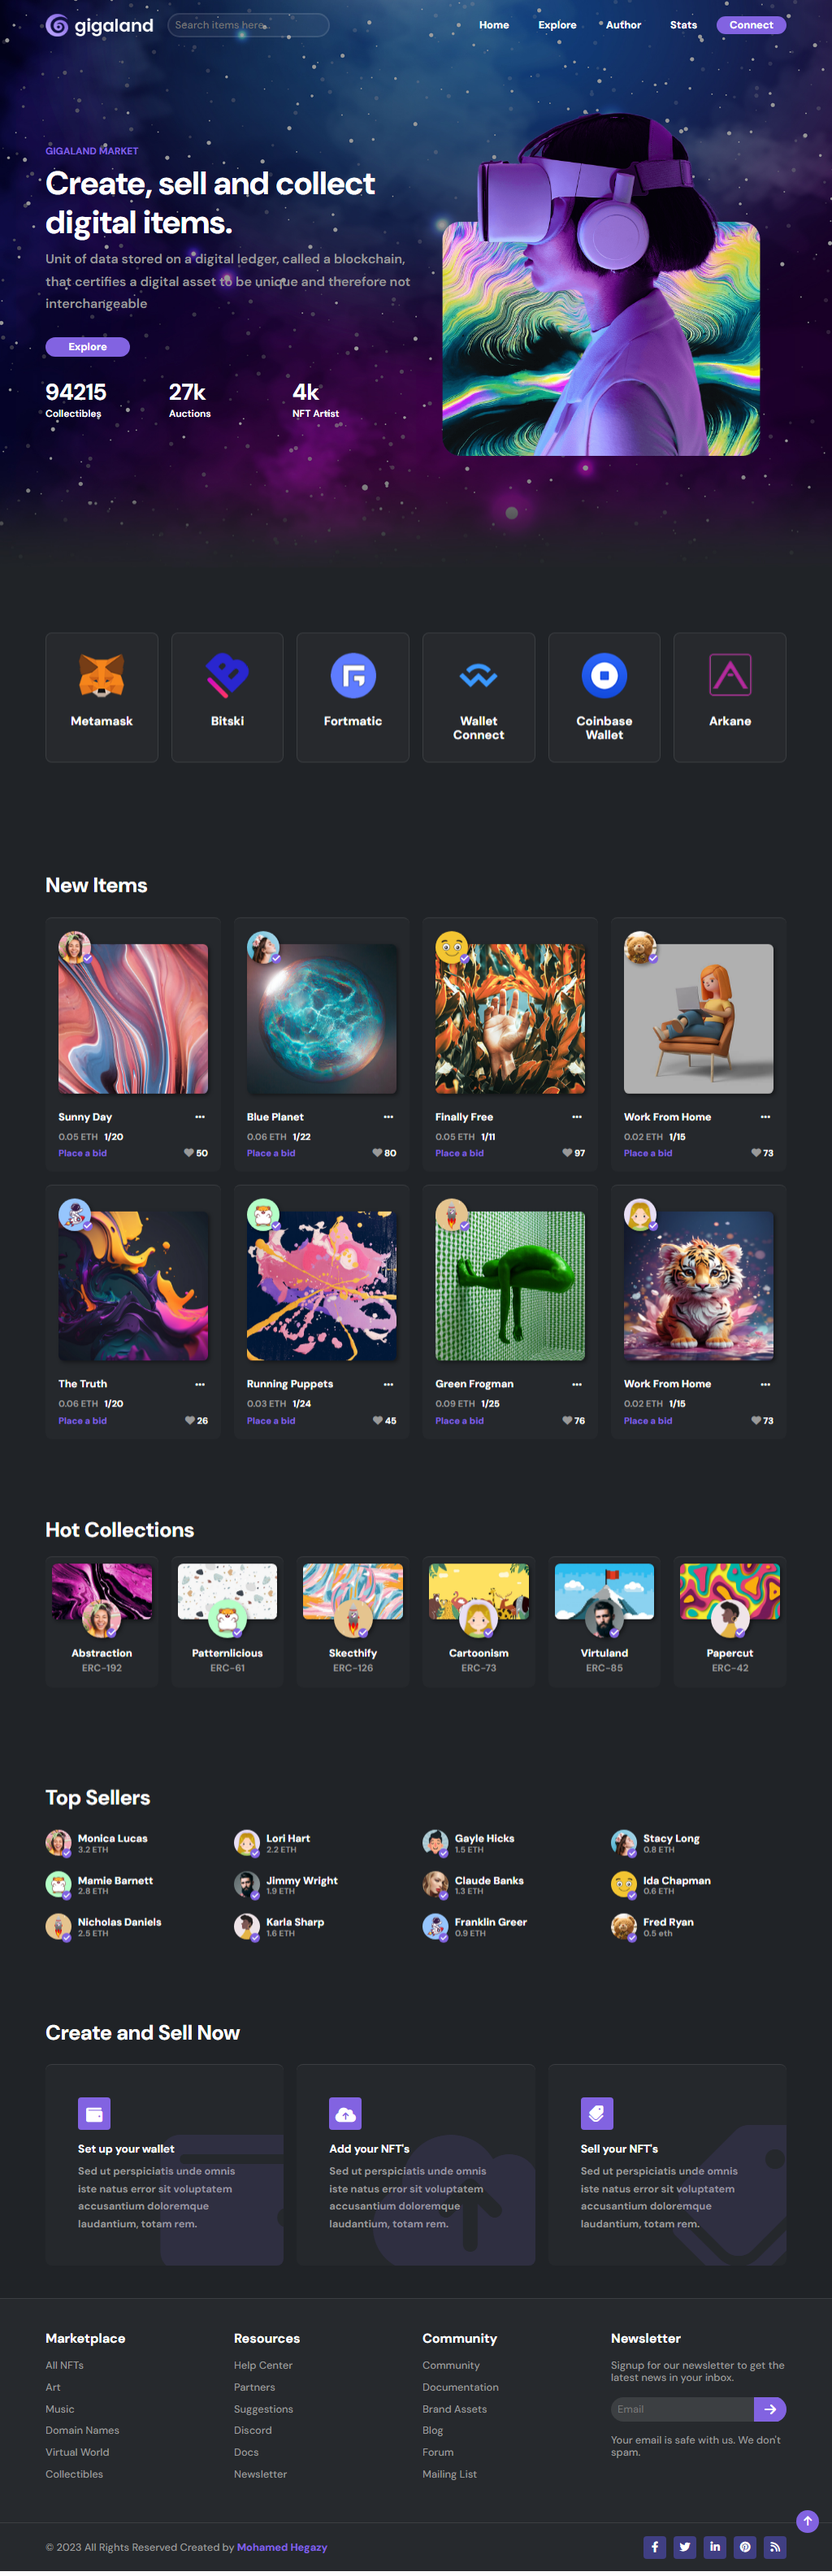
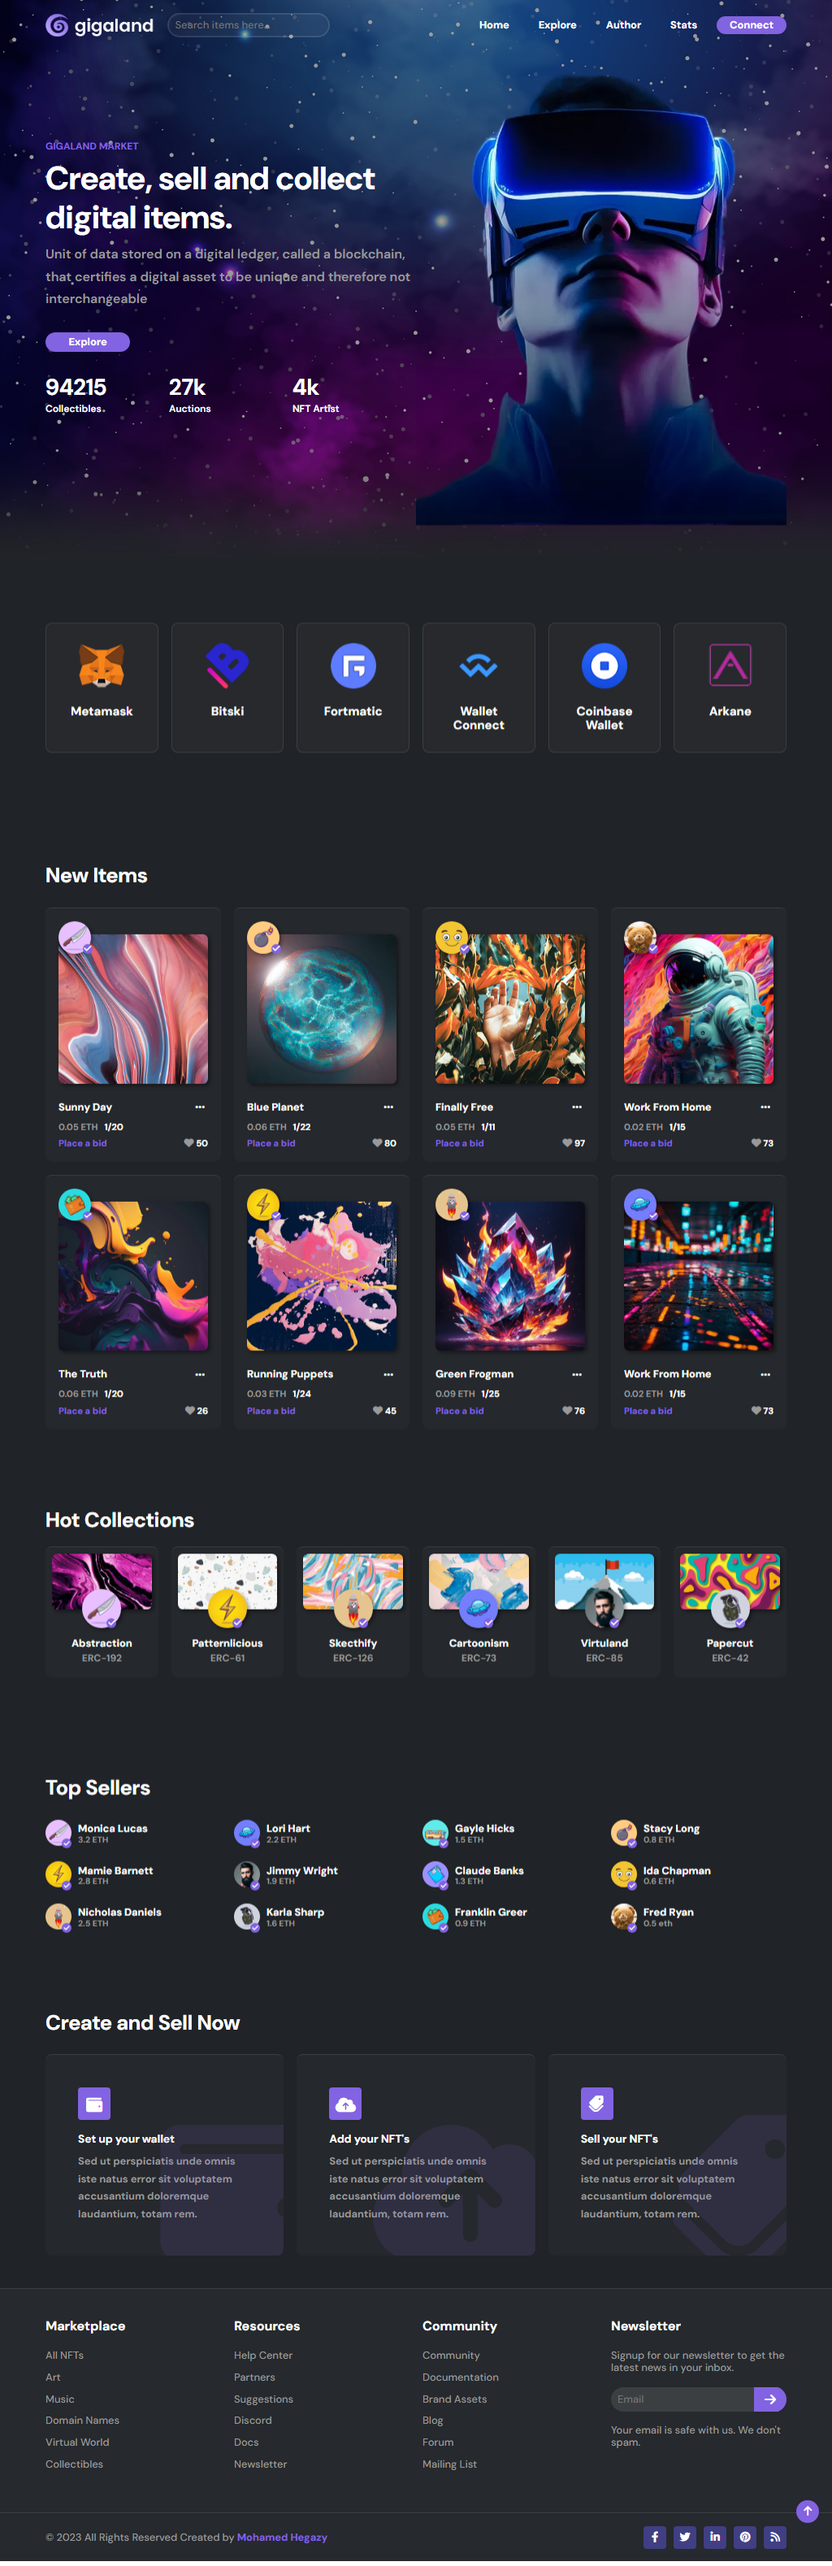
Update Website

diff --git a/index.html b/index.html
@@ -61,7 +61,7 @@
             </div>
           </div>
         </div>
-        <img src="./img/asset 1.png" alt="">
+        <img src="./img/asset 1.webp" alt="">
       </div>
     </div>
   </div>
@@ -107,7 +107,7 @@
       <div class="items-cards">
         <div class="card">
           <div class="user">
-            <img class="user-img" src="./img/asset 8.jpeg" alt="">
+            <img class="user-img" src="./img/asset 8.jpg" alt="">
             <i class="fa-solid fa-check"></i>
           </div>
           <img src="./img/asset 9.jpeg" alt="">
@@ -128,7 +128,7 @@
         </div>
         <div class="card">
           <div class="user">
-            <img class="user-img" src="./img/asset 10.jpeg" alt="">
+            <img class="user-img" src="./img/asset 10.jpg" alt="">
             <i class="fa-solid fa-check"></i>
           </div>
           <img src="./img/asset 11.jpeg" alt="">
@@ -173,7 +173,7 @@
             <img class="user-img" src="./img/asset 14.jpeg" alt="">
             <i class="fa-solid fa-check"></i>
           </div>
-          <img src="./img/asset 15.jpeg" alt="">
+          <img src="./img/asset 15.jpg" alt="">
           <div class="text">
             <div class="head">
               <h3>Work From Home</h3>
@@ -191,7 +191,7 @@
         </div>
         <div class="card">
           <div class="user">
-            <img class="user-img" src="./img/asset 16.jpeg" alt="">
+            <img class="user-img" src="./img/asset 16.jpg" alt="">
             <i class="fa-solid fa-check"></i>
           </div>
           <img src="./img/asset 17.png" alt="">
@@ -212,7 +212,7 @@
         </div>
         <div class="card">
           <div class="user">
-            <img class="user-img" src="./img/asset 18.jpeg" alt="">
+            <img class="user-img" src="./img/asset 18.jpg" alt="">
             <i class="fa-solid fa-check"></i>
           </div>
           <img src="./img/asset 19.jpeg" alt="">
@@ -236,7 +236,7 @@
             <img class="user-img" src="./img/asset 20.jpeg" alt="">
             <i class="fa-solid fa-check"></i>
           </div>
-          <img src="./img/asset 21.jpeg" alt="">
+          <img src="./img/asset 21.png" alt="">
           <div class="text">
             <div class="head">
               <h3>Green Frogman</h3>
@@ -254,10 +254,10 @@
         </div>
         <div class="card">
           <div class="user">
-            <img class="user-img" src="./img/asset 22.jpeg" alt="">
+            <img class="user-img" src="./img/asset 22.jpg" alt="">
             <i class="fa-solid fa-check"></i>
           </div>
-          <img src="./img/asset 23.png" alt="">
+          <img src="./img/asset 23.jpg" alt="">
           <div class="text">
             <div class="head">
               <h3>Work From Home</h3>
@@ -287,7 +287,7 @@
             <img src="./img/asset 31.jpeg" alt="">
             <div class="content">
               <div class="user-acc">
-                <img src="./img/asset 8.jpeg" alt="">
+                <img src="./img/asset 8.jpg" alt="">
                 <i class="fa-solid fa-check"></i>
               </div>
               <div class="text">
@@ -300,7 +300,7 @@
             <img src="./img/asset 24.jpeg" alt="">
             <div class="content">
               <div class="user-acc">
-                <img src="./img/asset 18.jpeg" alt="">
+                <img src="./img/asset 18.jpg" alt="">
                 <i class="fa-solid fa-check"></i>
               </div>
               <div class="text">
@@ -323,10 +323,10 @@
             </div>
           </div>
           <div class="card">
-            <img src="./img/asset 26.jpeg" alt="">
+            <img src="./img/asset 26.jpg" alt="">
             <div class="content">
               <div class="user-acc">
-                <img src="./img/asset 22.jpeg" alt="">
+                <img src="./img/asset 22.jpg" alt="">
                 <i class="fa-solid fa-check"></i>
               </div>
               <div class="text">
@@ -352,7 +352,7 @@
             <img src="./img/asset 29.jpeg" alt="">
             <div class="content">
               <div class="user-acc">
-                <img src="./img/asset 30.jpeg" alt="">
+                <img src="./img/asset 30.jpg" alt="">
                 <i class="fa-solid fa-check"></i>
               </div>
               <div class="text">
@@ -375,7 +375,7 @@
       <div class="sellers-cards">
         <div class="card">
           <div class="user">
-            <img src="./img/asset 8.jpeg" alt="">
+            <img src="./img/asset 8.jpg" alt="">
             <i class="fa-solid fa-check"></i>
           </div>
           <div class="text">
@@ -385,7 +385,7 @@
         </div>
         <div class="card">
           <div class="user">
-            <img src="./img/asset 22.jpeg" alt="">
+            <img src="./img/asset 22.jpg" alt="">
             <i class="fa-solid fa-check"></i>
           </div>
           <div class="text">
@@ -395,7 +395,7 @@
         </div>
         <div class="card">
           <div class="user">
-            <img src="./img/asset 32.jpeg" alt="">
+            <img src="./img/asset 32.jpg" alt="">
             <i class="fa-solid fa-check"></i>
           </div>
           <div class="text">
@@ -405,7 +405,7 @@
         </div>
         <div class="card">
           <div class="user">
-            <img src="./img/asset 10.jpeg" alt="">
+            <img src="./img/asset 10.jpg" alt="">
             <i class="fa-solid fa-check"></i>
           </div>
           <div class="text">
@@ -415,7 +415,7 @@
         </div>
         <div class="card">
           <div class="user">
-            <img src="./img/asset 18.jpeg" alt="">
+            <img src="./img/asset 18.jpg" alt="">
             <i class="fa-solid fa-check"></i>
           </div>
           <div class="text">
@@ -435,7 +435,7 @@
         </div>
         <div class="card">
           <div class="user">
-            <img src="./img/asset 33.jpeg" alt="">
+            <img src="./img/asset 33.jpg" alt="">
             <i class="fa-solid fa-check"></i>
           </div>
           <div class="text">
@@ -465,7 +465,7 @@
         </div>
         <div class="card">
           <div class="user">
-            <img src="./img/asset 30.jpeg" alt="">
+            <img src="./img/asset 30.jpg" alt="">
             <i class="fa-solid fa-check"></i>
           </div>
           <div class="text">
@@ -475,7 +475,7 @@
         </div>
         <div class="card">
           <div class="user">
-            <img src="./img/asset 16.jpeg" alt="">
+            <img src="./img/asset 16.jpg" alt="">
             <i class="fa-solid fa-check"></i>
           </div>
           <div class="text">

diff --git a/css/main.css b/css/main.css
@@ -346,11 +346,13 @@ a {
 
 .landing .container .content img {
   width: 100%;
+  height: 100%;
+  object-fit: cover;
 }
 
 /* Start Responsive Landing */
 
-@media (max-width: 767px) {
+@media (max-width: 992px) {
   .landing .container .content img {
     display: none;
   }
